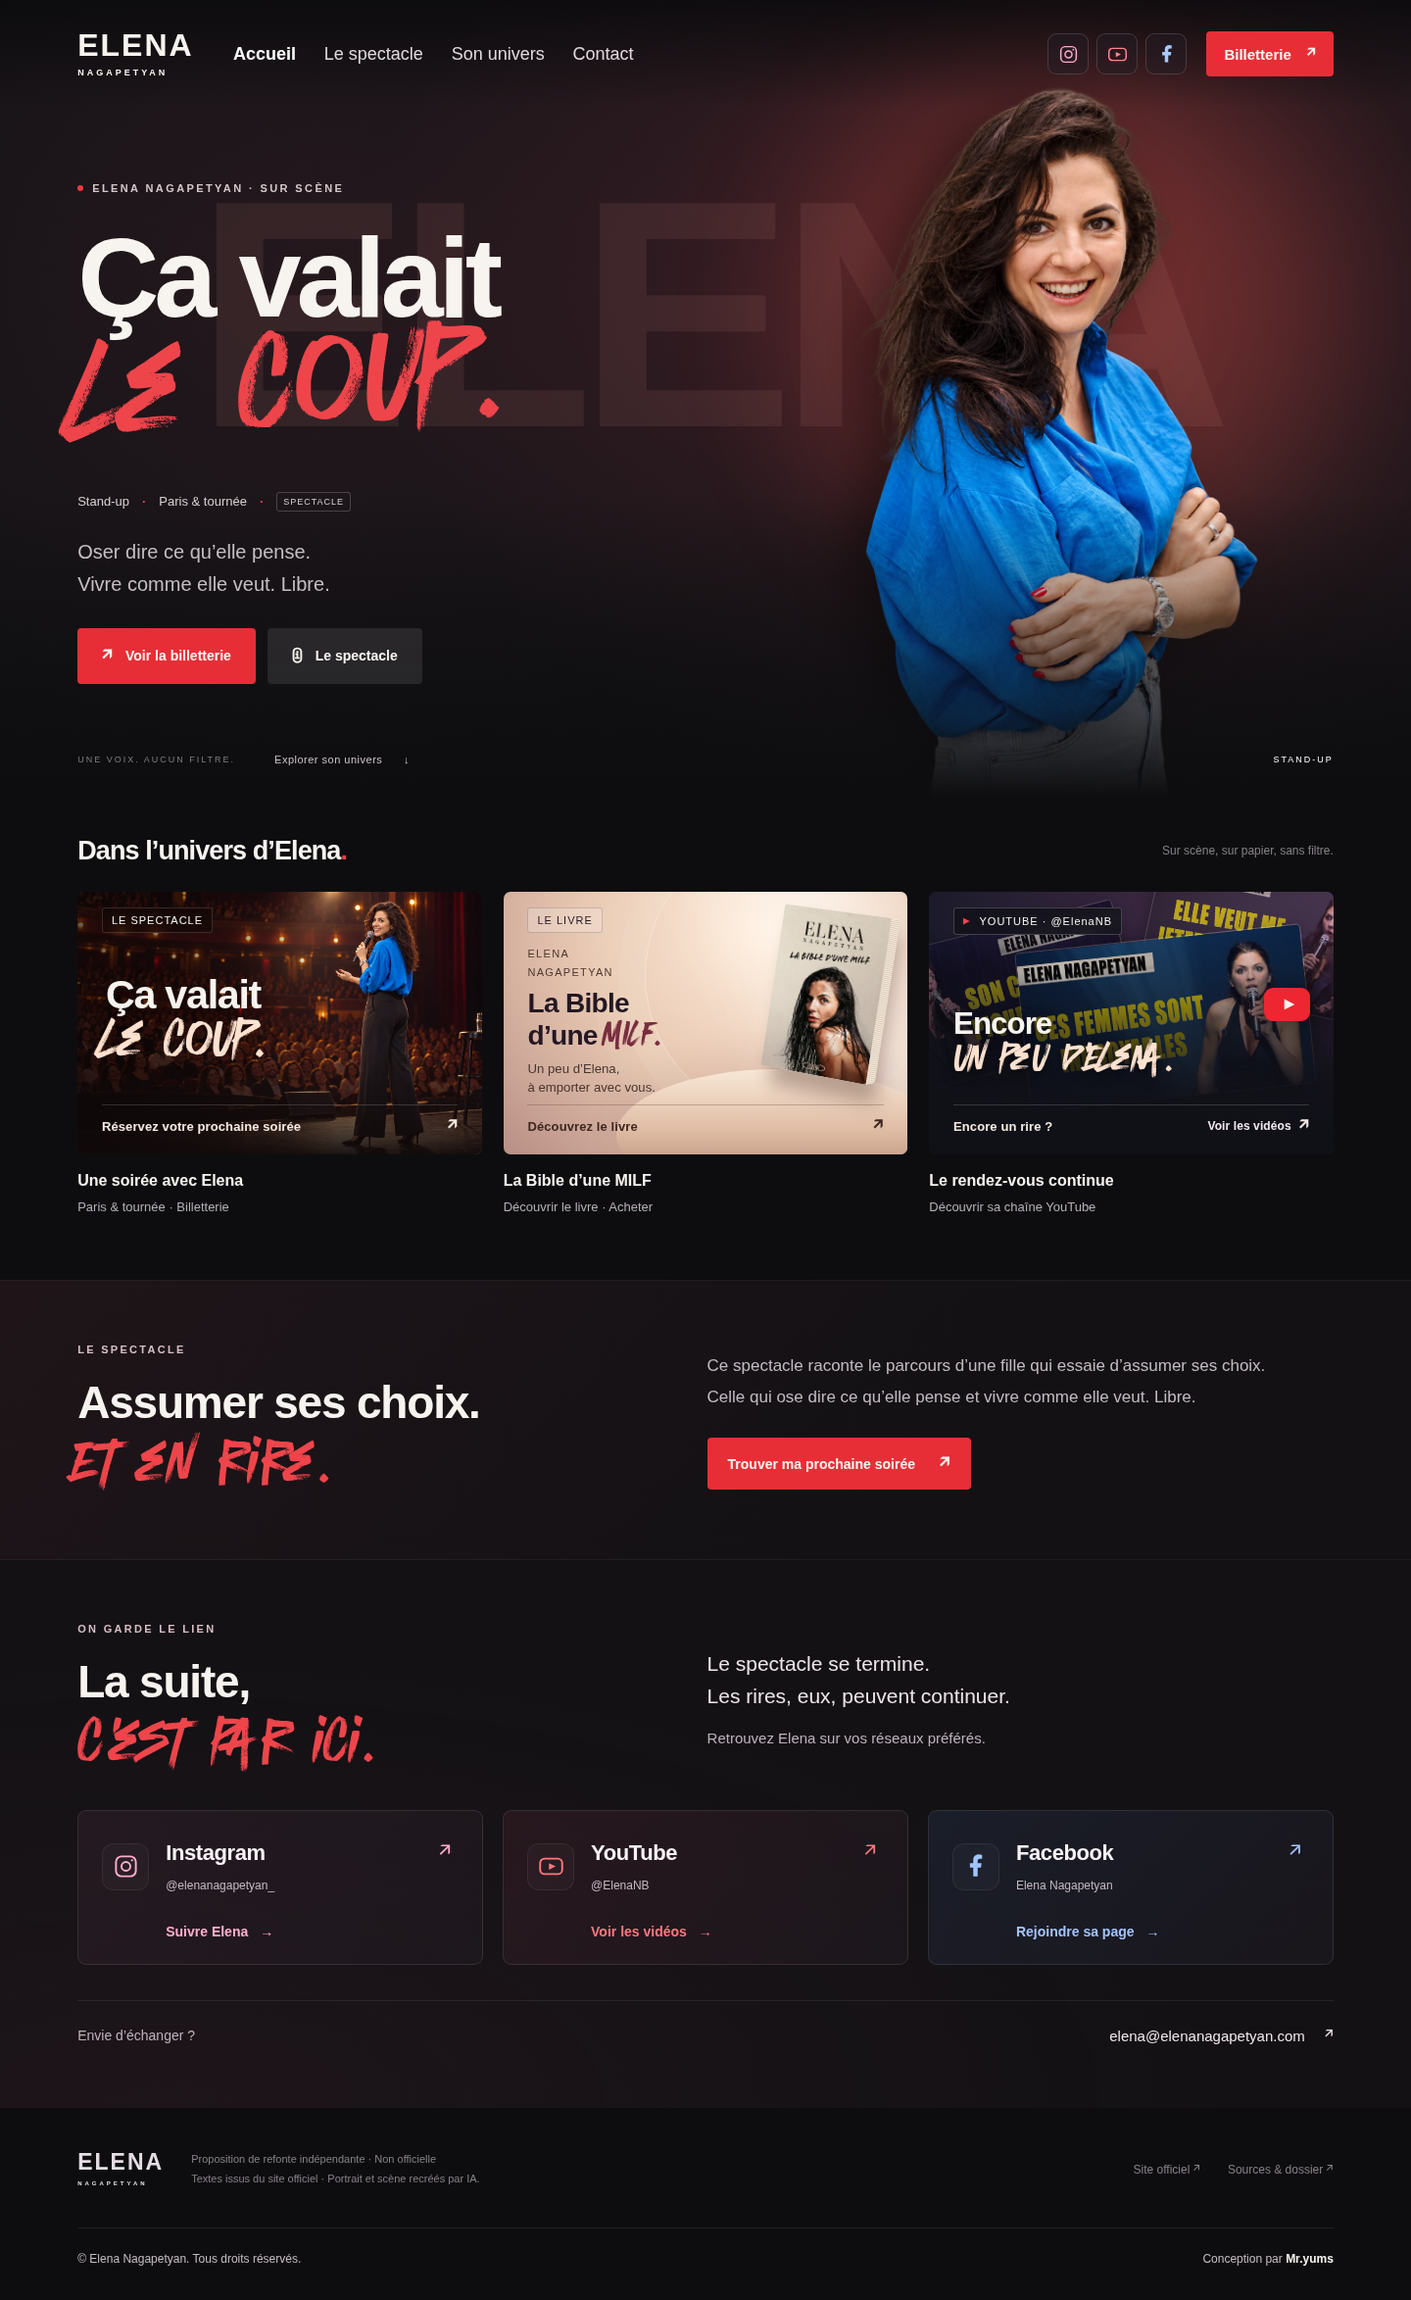
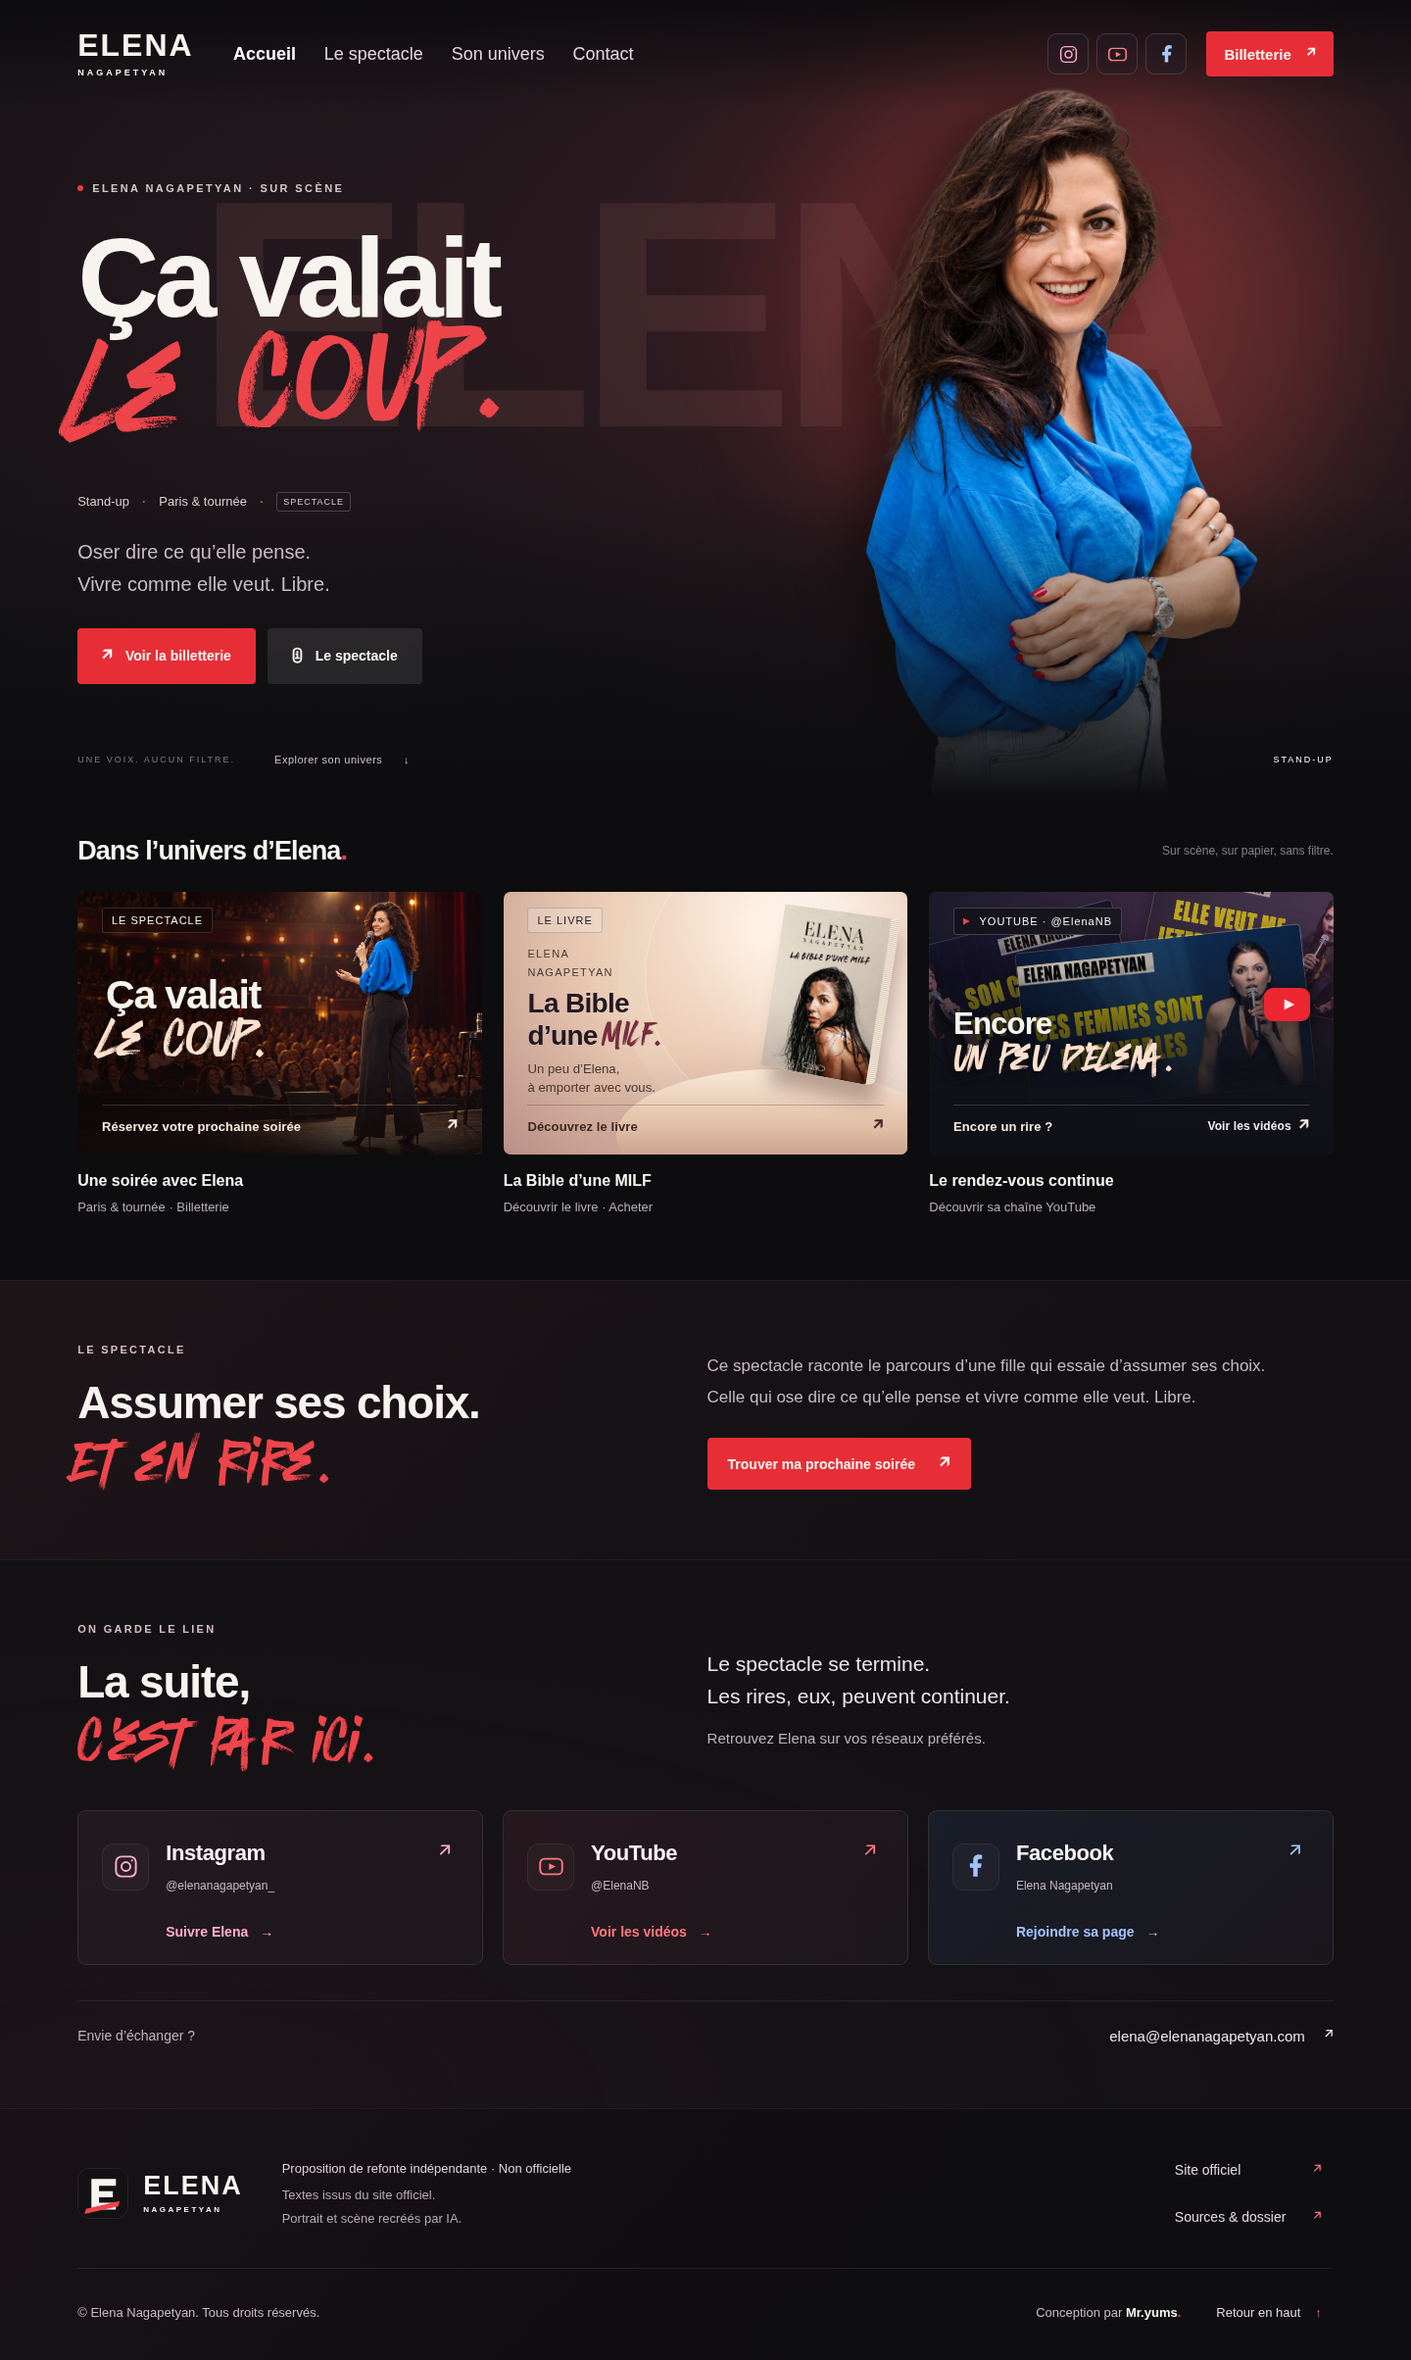
[Sol · GPT-6 · 19/09/2026] Harmoniser le pied de page et ses interactions

diff --git a/site/index.html b/site/index.html
@@ -1,5 +1,5 @@
 <!doctype html>
-<html lang="fr"><head><meta charset="utf-8"><meta name="viewport" content="width=device-width,initial-scale=1"><meta name="robots" content="noindex,nofollow"><meta name="description" content="Une proposition créative autour de l’univers d’Elena Nagapetyan."><title>Elena — Ça valait le coup · Concept</title><link rel="icon" type="image/png" sizes="32x32" href="assets/favicon-32.png"><link rel="icon" type="image/svg+xml" href="assets/favicon.svg"><link rel="apple-touch-icon" sizes="180x180" href="assets/apple-touch-icon.png"><link rel="stylesheet" href="style.css?v=credits-11"></head>
+<html lang="fr"><head><meta charset="utf-8"><meta name="viewport" content="width=device-width,initial-scale=1"><meta name="robots" content="noindex,nofollow"><meta name="description" content="Une proposition créative autour de l’univers d’Elena Nagapetyan."><title>Elena — Ça valait le coup · Concept</title><link rel="icon" type="image/png" sizes="32x32" href="assets/favicon-32.png"><link rel="icon" type="image/svg+xml" href="assets/favicon.svg"><link rel="apple-touch-icon" sizes="180x180" href="assets/apple-touch-icon.png"><link rel="stylesheet" href="style.css?v=footer-12"></head>
 <body>
 <a class="skip" href="#spectacle">Aller au contenu</a>
 <header><a class="brand" href="#accueil" aria-label="Elena, accueil">ELENA<span>NAGAPETYAN</span></a><nav aria-label="Navigation principale"><a class="active" href="#accueil">Accueil</a><a href="#spectacle">Le spectacle</a><a href="#univers">Son univers</a><a href="#contact">Contact</a></nav><div class="header-actions"><div class="header-socials" aria-label="Réseaux sociaux"><a class="header-social header-instagram" href="https://www.instagram.com/elenanagapetyan_/" target="_blank" rel="noopener noreferrer" aria-label="Elena sur Instagram" title="Elena sur Instagram"><svg aria-hidden="true" viewBox="0 0 24 24" fill="none" stroke="currentColor" stroke-width="1.7"><rect x="3" y="3" width="18" height="18" rx="5"/><circle cx="12" cy="12" r="4"/><circle cx="17.5" cy="6.5" r="1" fill="currentColor" stroke="none"/></svg></a><a class="header-social header-youtube" href="https://www.youtube.com/@ElenaNB" target="_blank" rel="noopener noreferrer" aria-label="Elena sur YouTube" title="Elena sur YouTube"><svg aria-hidden="true" viewBox="0 0 24 24" fill="none" stroke="currentColor" stroke-width="1.7"><rect x="2" y="5" width="20" height="14" rx="4"/><path d="m10 9 6 3-6 3Z" fill="currentColor" stroke="none"/></svg></a><a class="header-social header-facebook" href="https://www.facebook.com/p/Elena-Nagapetyan-100076068015422/" target="_blank" rel="noopener noreferrer" aria-label="Elena sur Facebook" title="Elena sur Facebook"><svg aria-hidden="true" viewBox="0 0 24 24" fill="none" stroke="currentColor" stroke-width="1.7"><path d="M14 21v-8h3l.5-4H14V7c0-1 .4-2 2-2h2V1.5A25 25 0 0 0 15 1c-3 0-5 2-5 5v3H7v4h3v8Z" fill="currentColor" stroke="none"/></svg></a></div><a class="tickets" href="https://linktr.ee/elenanb" target="_blank" rel="noopener noreferrer">Billetterie <span>↗</span></a></div></header>
@@ -7,6 +7,9 @@
 <section class="catalog section" id="univers"><div class="section-heading"><h2>Dans l’univers d’Elena<span>.</span></h2><span>Sur scène, sur papier, sans filtre.</span></div><div class="cards"><a class="card stage" href="https://linktr.ee/elenanb" target="_blank" rel="noopener noreferrer"><div class="card-art"><span class="pill">LE SPECTACLE</span><img class="scene-photo" src="assets/elena-scene.png" alt="Illustration générée d’Elena debout sur scène face à une salle de spectacle" loading="lazy"><span class="scene-shade" aria-hidden="true"></span><div class="card-title">Ça valait<br><em>le coup.</em></div><span class="card-cta">Réservez votre prochaine soirée <span aria-hidden="true">↗</span></span></div><div class="card-caption"><h3>Une soirée avec Elena</h3><p>Paris & tournée · Billetterie</p></div></a><a class="card book" href="https://www.interforum.fr/Affiliations/accueil.do?refLivre=9782749964133&amp;refEditeur=132&amp;type=P" target="_blank" rel="noopener noreferrer"><div class="card-art"><span class="pill">LE LIVRE</span><span class="book-orbit" aria-hidden="true"></span><span class="book-plinth" aria-hidden="true"></span><div class="book-copy"><span>ELENA<br>NAGAPETYAN</span><strong>La Bible<br><span>d’une <em>MILF.</em></span></strong><small>Un peu d’Elena,<br>à emporter avec vous.</small></div><div class="book-object"><img src="assets/livre-couverture.jpg" alt="Couverture originale de La Bible d’une MILF, Elena Nagapetyan, éditions Michel Lafon" loading="lazy"></div><span class="card-cta">Découvrez le livre <span aria-hidden="true">↗</span></span></div><div class="card-caption"><h3>La Bible d’une MILF</h3><p>Découvrir le livre · Acheter</p></div></a><a class="card video" href="https://www.youtube.com/@ElenaNB" target="_blank" rel="noopener noreferrer"><div class="card-art"><div class="youtube-mosaic" aria-hidden="true"><img class="yt-back" src="assets/youtube-2.jpg" alt="" loading="lazy"><img class="yt-side" src="assets/youtube-3.jpg" alt="" loading="lazy"><img class="yt-front" src="assets/youtube-1.jpg" alt="" loading="lazy"></div><span class="video-shade" aria-hidden="true"></span><span class="pill youtube-label"><span>▶</span> YOUTUBE · @ElenaNB</span><span class="play" aria-hidden="true">▶</span><div class="video-type">Encore<br><em>un peu d’Elena.</em></div><span class="card-cta">Encore un rire ? <span class="cta-action">Voir les vidéos</span> <span aria-hidden="true">↗</span></span></div><div class="card-caption"><h3>Le rendez-vous continue</h3><p>Découvrir sa chaîne YouTube</p></div></a></div></section>
 <section class="story section" id="spectacle"><div><p class="eyebrow">LE SPECTACLE</p><h2>Assumer ses choix.<br><em>Et en rire.</em></h2></div><div class="story-copy"><p>Ce spectacle raconte le parcours d’une fille qui essaie d’assumer ses choix. Celle qui ose dire ce qu’elle pense et vivre comme elle veut. Libre.</p><a class="button primary story-booking" href="https://linktr.ee/elenanb" target="_blank" rel="noopener noreferrer">Trouver ma prochaine soirée <span aria-hidden="true">↗</span></a></div></section>
 <section class="contact section" id="contact"><div class="contact-heading"><p class="eyebrow">ON GARDE LE LIEN</p><h2>La suite,<br><em>c’est par ici.</em></h2></div><p class="contact-intro">Le spectacle se termine.<br>Les rires, eux, peuvent continuer.<span>Retrouvez Elena sur vos réseaux préférés.</span></p><div class="socials" aria-label="Retrouver Elena sur les réseaux sociaux"><a class="social-link social-instagram" href="https://www.instagram.com/elenanagapetyan_/" target="_blank" rel="noopener noreferrer"><span class="social-icon" aria-hidden="true"><svg viewBox="0 0 24 24" fill="none" stroke="currentColor" stroke-width="1.7"><rect x="3" y="3" width="18" height="18" rx="5"/><circle cx="12" cy="12" r="4"/><circle cx="17.5" cy="6.5" r="1" fill="currentColor" stroke="none"/></svg></span><span class="social-name">Instagram</span><span class="social-handle">@elenanagapetyan_</span><span class="social-arrow" aria-hidden="true">↗</span><span class="social-invite">Suivre Elena <span aria-hidden="true">→</span></span></a><a class="social-link social-youtube" href="https://www.youtube.com/@ElenaNB" target="_blank" rel="noopener noreferrer"><span class="social-icon" aria-hidden="true"><svg viewBox="0 0 24 24" fill="none" stroke="currentColor" stroke-width="1.7"><rect x="2" y="5" width="20" height="14" rx="4"/><path d="m10 9 6 3-6 3Z" fill="currentColor" stroke="none"/></svg></span><span class="social-name">YouTube</span><span class="social-handle">@ElenaNB</span><span class="social-arrow" aria-hidden="true">↗</span><span class="social-invite">Voir les vidéos <span aria-hidden="true">→</span></span></a><a class="social-link social-facebook" href="https://www.facebook.com/p/Elena-Nagapetyan-100076068015422/" target="_blank" rel="noopener noreferrer"><span class="social-icon" aria-hidden="true"><svg viewBox="0 0 24 24" fill="none" stroke="currentColor" stroke-width="1.7"><path d="M14 21v-8h3l.5-4H14V7c0-1 .4-2 2-2h2V1.5A25 25 0 0 0 15 1c-3 0-5 2-5 5v3H7v4h3v8Z" fill="currentColor" stroke="none"/></svg></span><span class="social-name">Facebook</span><span class="social-handle">Elena Nagapetyan</span><span class="social-arrow" aria-hidden="true">↗</span><span class="social-invite">Rejoindre sa page <span aria-hidden="true">→</span></span></a></div><div class="contact-mail"><span>Envie d’échanger ?</span><a class="email" href="mailto:elena@elenanagapetyan.com">elena@elenanagapetyan.com <span aria-hidden="true">↗</span></a></div></section>
-</main><footer><a class="brand" href="#accueil">ELENA<span>NAGAPETYAN</span></a><p>Proposition de refonte indépendante · Non officielle<br>Textes issus du site officiel · Portrait et scène recréés par IA.</p><a href="https://www.elenanagapetyan.com/" target="_blank" rel="noopener noreferrer">Site officiel ↗</a><a href="dossier.html">Sources & dossier ↗</a><div class="footer-credits"><span>© Elena Nagapetyan. Tous droits réservés.</span><span>Conception par <strong>Mr.yums</strong></span></div></footer>
+</main><footer class="site-footer">
+<div class="footer-main"><a class="footer-identity" href="#accueil" aria-label="Elena Nagapetyan — retour à l’accueil"><img src="assets/favicon.svg" width="52" height="52" alt=""><span class="brand">ELENA<span>NAGAPETYAN</span></span></a><p class="footer-note"><strong>Proposition de refonte indépendante · Non officielle</strong><span>Textes issus du site officiel.<br>Portrait et scène recréés par IA.</span></p><nav class="footer-links" aria-label="Informations sur le site"><a href="https://www.elenanagapetyan.com/" target="_blank" rel="noopener noreferrer">Site officiel <span aria-hidden="true">↗</span></a><a href="dossier.html">Sources & dossier <span aria-hidden="true">↗</span></a></nav></div>
+<div class="footer-credits"><span>© Elena Nagapetyan. Tous droits réservés.</span><span class="footer-signature">Conception par <strong>Mr.yums<span aria-hidden="true">.</span></strong></span><a class="back-to-top" href="#accueil">Retour en haut <span aria-hidden="true">↑</span></a></div>
+</footer>
 <script src="interactions.js?v=2" defer></script>
 </body></html>

diff --git a/site/style.css b/site/style.css
@@ -203,7 +203,13 @@ header .tickets span{margin-left:16px}
 }
 @media(hover:none){.header-social:hover{transform:none}.header-social:active{background:#44303b}}
 
-footer{flex-wrap:wrap}
-.footer-credits{flex:0 0 100%;display:flex;justify-content:space-between;align-items:center;gap:14px;padding-top:22px;border-top:1px solid #ffffff14;color:#c5bbc3;font-size:12px;line-height:1.6}
-.footer-credits strong{font-weight:600;color:#f7f4ef}
-@media(max-width:620px){.footer-credits{flex-direction:column;align-items:flex-start;gap:7px}}
+/* Pied de page : identité, informations et crédits dans une même grille. */
+.site-footer{display:block;padding-top:40px;padding-bottom:26px;background:linear-gradient(135deg,#181217,#0e0d10 65%);border-top:1px solid #ffffff12;color:#c5bbc3}
+.footer-main{display:grid;grid-template-columns:auto minmax(0,1fr) auto;align-items:center;gap:40px;padding-bottom:30px}
+.footer-identity{display:inline-flex;align-items:center;gap:15px;min-height:52px}.footer-identity img{flex-shrink:0;border:1px solid #ffffff14;border-radius:12px}.footer-identity .brand{font-size:27px;color:#f7f4ef}.footer-identity .brand span{font-size:8px;letter-spacing:2.5px}
+.site-footer .footer-note{margin:0;font-size:13px;line-height:1.8;max-width:470px}.footer-note strong{display:block;font-weight:500;color:#ded3dc}.footer-note>span{display:block;margin-top:4px;color:#b6a8b3}
+.site-footer .footer-links{display:flex;flex-direction:column;align-items:stretch;gap:4px;font-size:14px;color:#e3d7df}.footer-links a{display:flex;justify-content:space-between;align-items:center;gap:28px;min-height:44px;padding:8px 12px;border-radius:6px;transition:background .2s,color .2s}.footer-links a>span{color:#f17785}.footer-links a:hover{background:#ffffff08;color:#fff}
+.footer-credits{display:flex;align-items:center;gap:24px;padding-top:23px;border-top:1px solid #ffffff14;font-size:13px;line-height:1.7}.footer-signature{margin-left:auto;white-space:nowrap}.footer-signature strong{font-weight:600;color:#f7f4ef}.footer-signature strong>span{color:#ee454b}
+.back-to-top{display:inline-flex;align-items:center;gap:15px;min-height:44px;padding:8px 12px;border-radius:6px;color:#e3d7df}.back-to-top>span{color:#f17785}.back-to-top:hover{background:#ffffff08;color:#fff}
+@media(max-width:1000px){.footer-main{grid-template-columns:1fr auto;gap:22px}.site-footer .footer-note{grid-column:1;grid-row:2}.site-footer .footer-links{grid-column:2;grid-row:1/3}.footer-credits{flex-wrap:wrap;gap:8px 24px}}
+@media(max-width:620px){.site-footer{padding-top:32px;padding-bottom:24px}.footer-main{grid-template-columns:minmax(0,1fr);gap:22px;padding-bottom:24px}.site-footer .footer-note{grid-column:auto;grid-row:auto;font-size:13px}.site-footer .footer-links{grid-column:auto;grid-row:auto;flex-direction:row;flex-wrap:wrap;gap:6px 14px}.footer-links a{padding-left:0;gap:14px}.footer-credits{flex-direction:column;align-items:flex-start;gap:12px;font-size:12px}.footer-signature{margin-left:0}.back-to-top{padding-left:0}.footer-identity .brand{font-size:27px}}

diff --git a/docs/VALIDATION.md b/docs/VALIDATION.md
@@ -28,3 +28,7 @@ Trois icônes de réseaux ajoutées à côté de la billetterie, avec les mêmes
 ## Favicon et crédits — 19 septembre 2026
 
 Monogramme E original en SVG, déclinaisons PNG 32 px et icône Apple 180 px ; références relatives compatibles GitHub Pages, accueil et dossier. Ajout des mentions « © Elena Nagapetyan. Tous droits réservés. » et « Conception par Mr.yums ». Contrôles Chromium à 320, 390, 768, 1440 et 3440 px sans débordement horizontal ; les trois icônes répondent HTTP 200. Icône et pied de page inspectés visuellement. Captures et kit actualisés.
+
+## Harmonisation du pied de page — 19 septembre 2026
+
+Identité avec monogramme, fond bordeaux discret, grille de lecture et mentions plus lisibles. Liens regroupés, cibles tactiles de 44 px minimum et retour en haut. Vérifications Chromium à 320, 390, 620, 768, 1000, 1024, 1440, 1920 et 3440 px : aucun débordement horizontal ; cibles de liens vérifiées et retour en haut fonctionnel. Captures du footer inspectées sur ordinateur et mobile. Kit actualisé.
